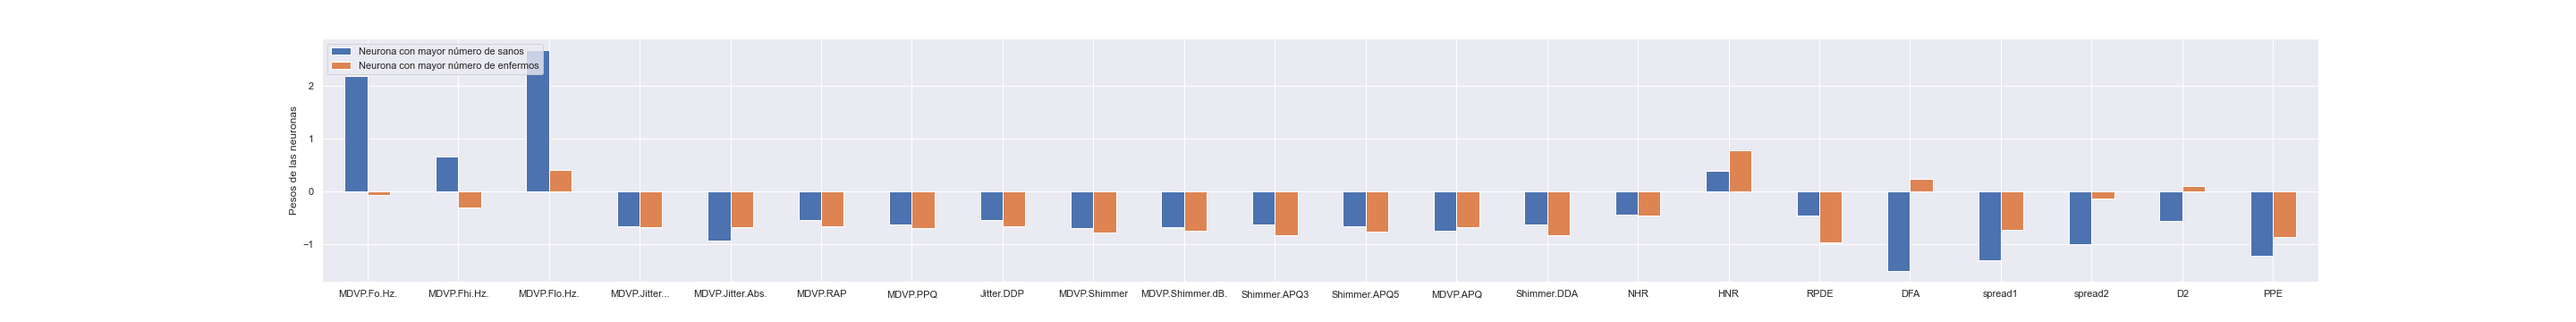
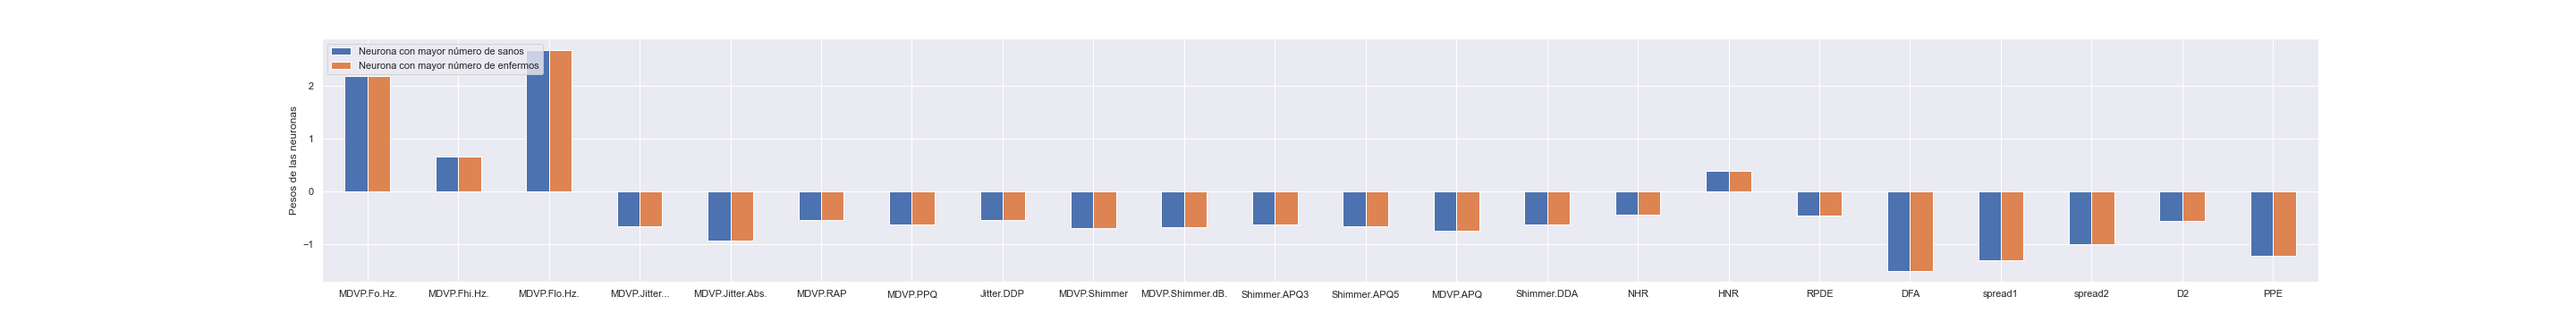
changes in the creation of charts

diff --git a/OxfordDataset/Code/GeneratedGroups/PrintSanosOEnfermos.py b/OxfordDataset/Code/GeneratedGroups/PrintSanosOEnfermos.py
@@ -83,7 +83,7 @@ df = pd.DataFrame(df)
 sn.set(rc={'figure.figsize':(40,5)})
 
 df = pd.DataFrame({'Neurona con mayor número de sanos': df.iloc[Neuronaconsanos],
-                   'Neurona con mayor número de enfermos': df.iloc[Neuronaconenfermos]}, index=df.columns)
+                   'Neurona con mayor número de enfermos': df.iloc[0]}, index=df.columns)
 df.plot.bar(rot=0)
 
 plt.legend(loc="upper left")
